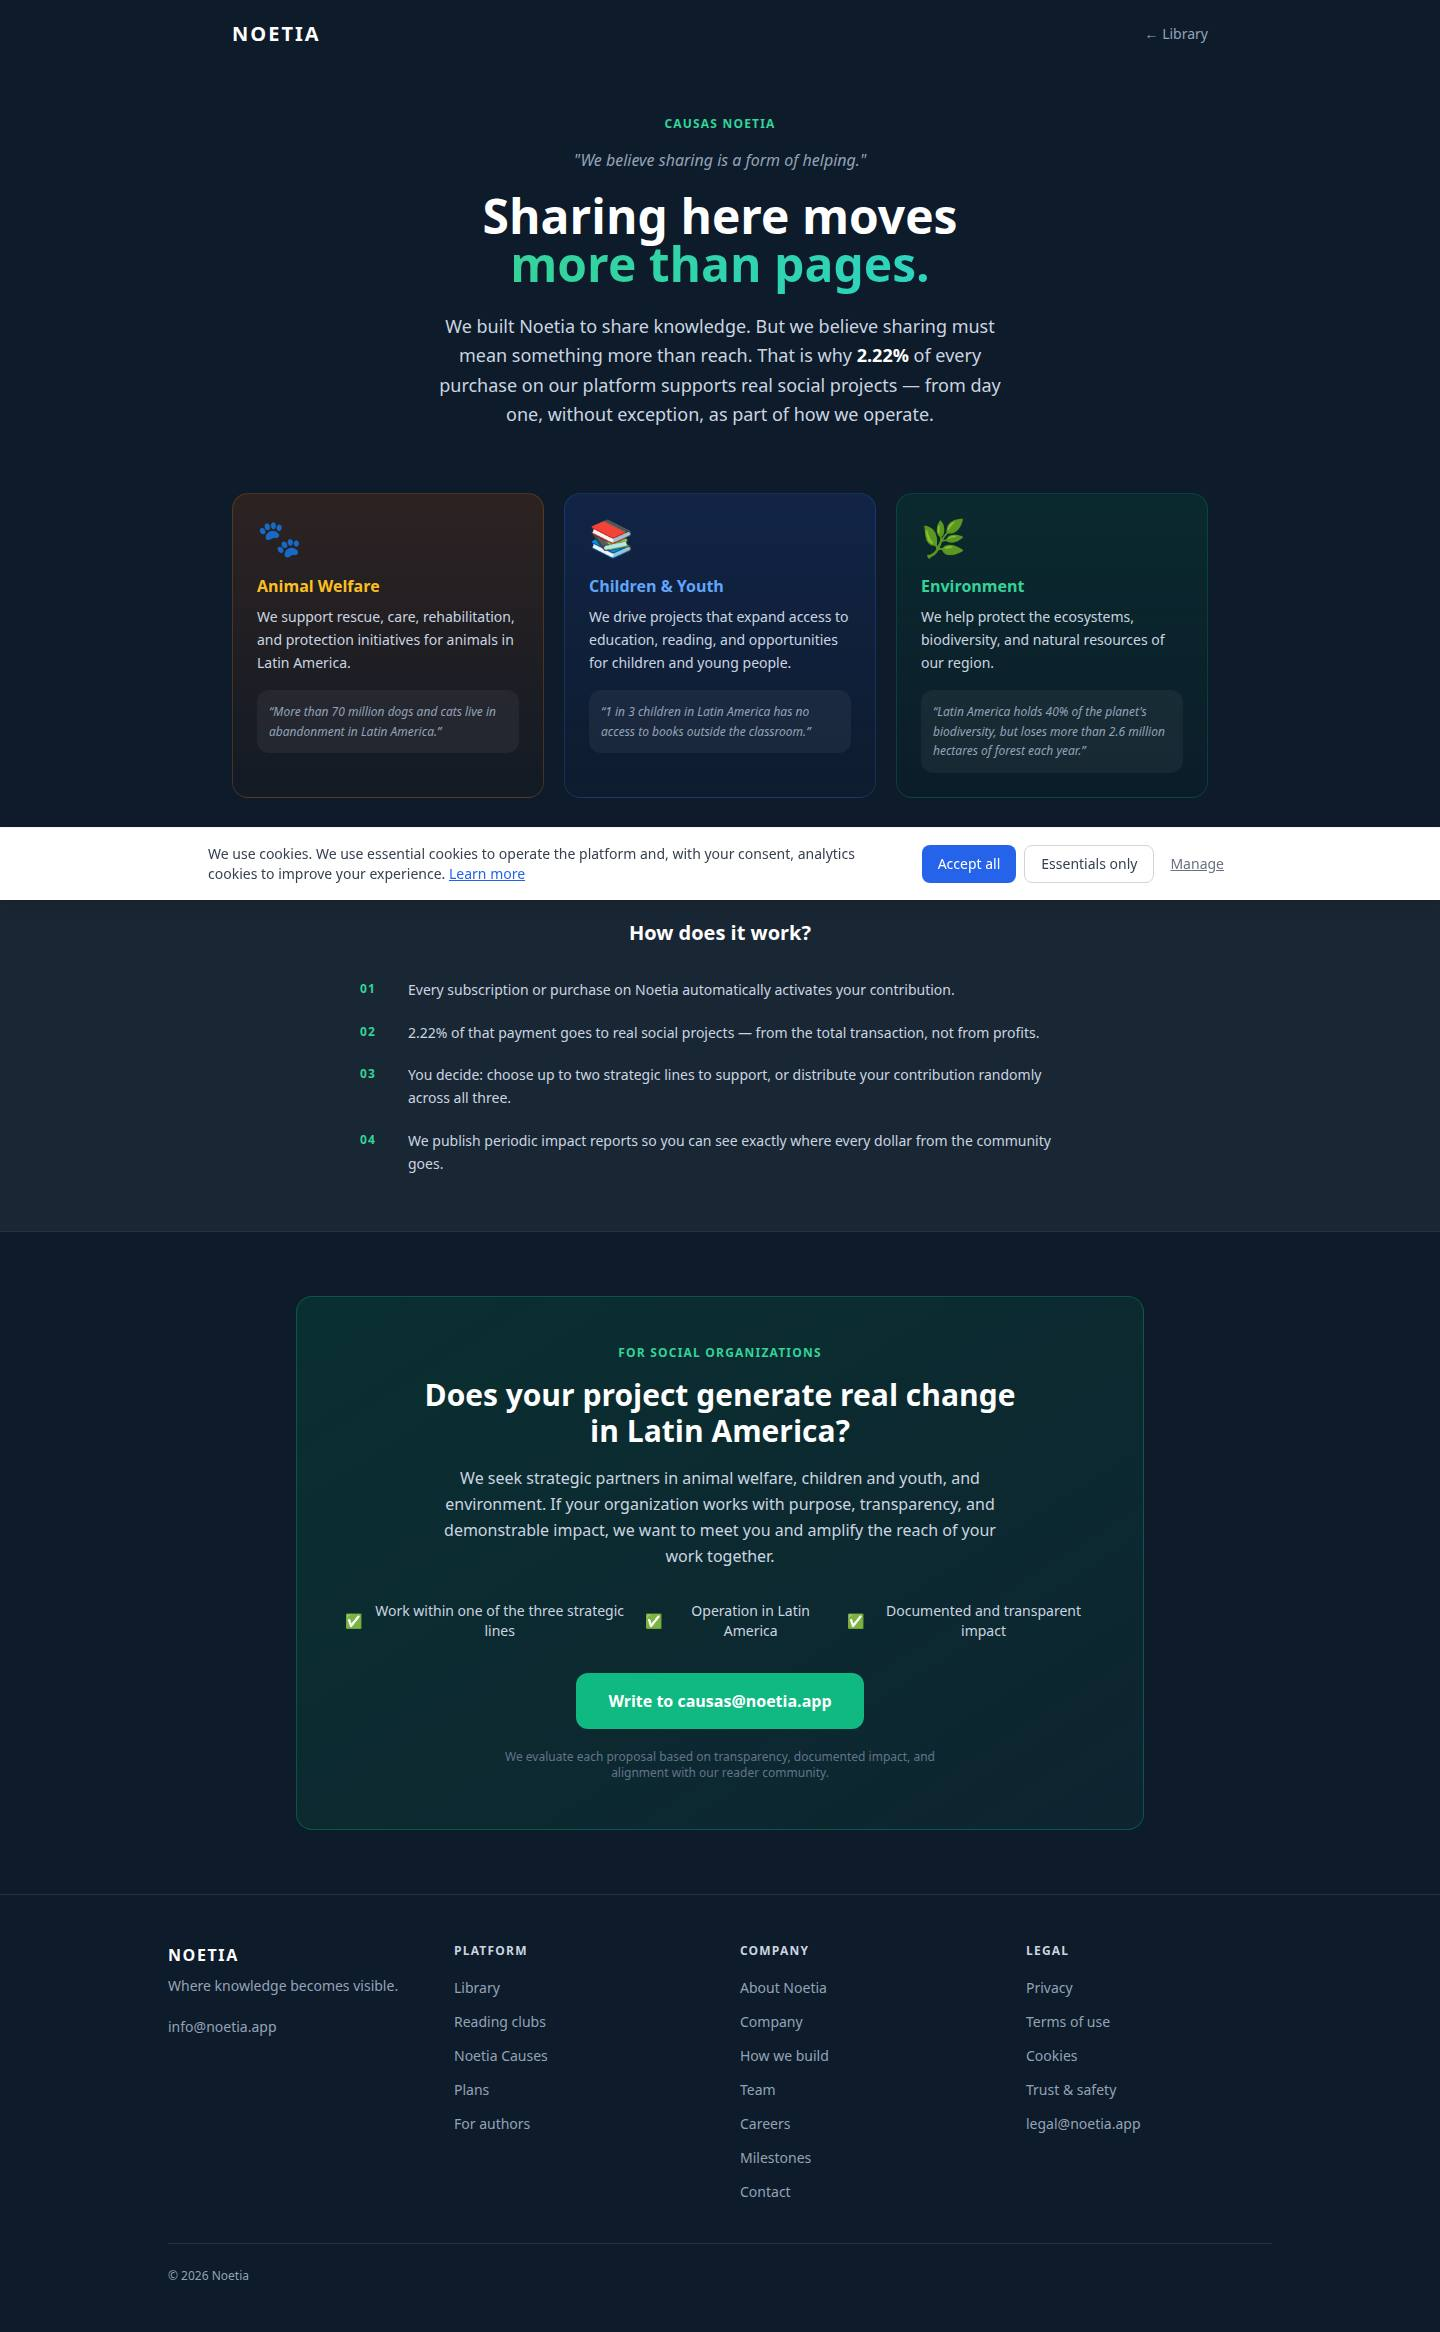
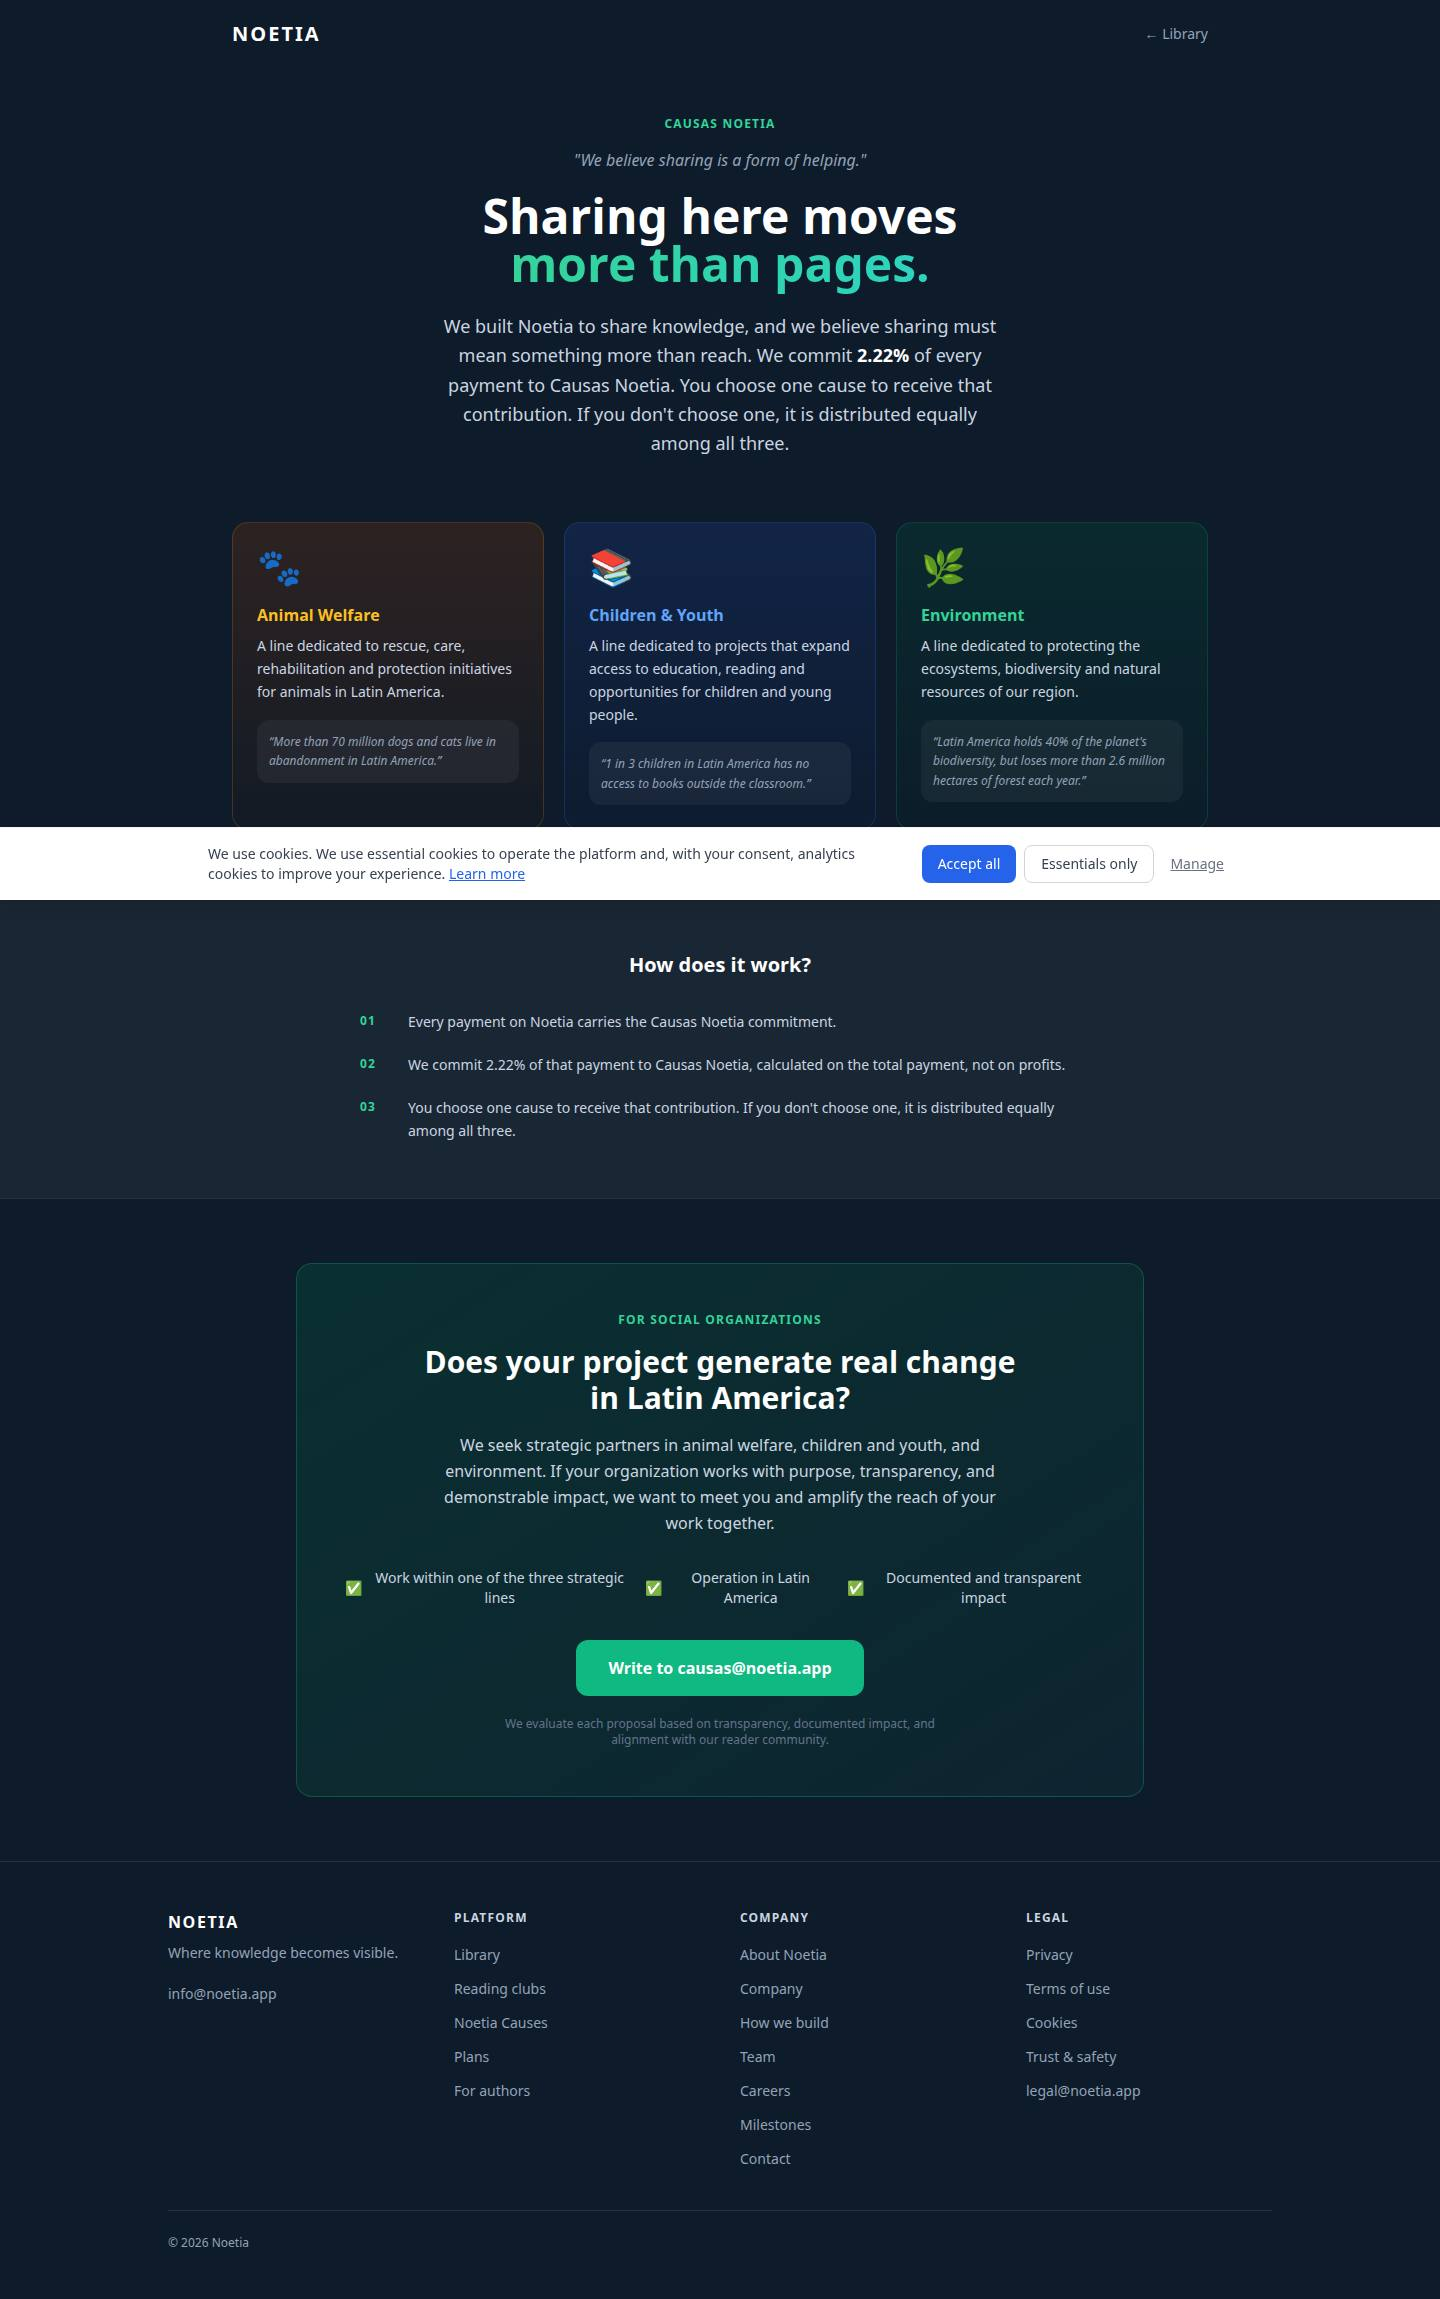
fix(web): align /causas copy with PO-053 — one cause or equal default; commitment wording
Replace the two-cause/random description with the PO-approved distribution
rule (ES/EN), replace execution-tense claims ("supports real projects from day
one", "automatically activates", present-tense support) with commitment
wording, and remove the unsupported claim that impact reports are published.
The 2.22% commitment and the three causes are preserved. Adds a regression
test enforcing the wording and homepage agreement. Terms of Service, cause
selector, preference API, schema and accounting unchanged.

diff --git a/services/web/app/causas/page.tsx b/services/web/app/causas/page.tsx
@@ -13,12 +13,12 @@ const STRATEGIC_LINES = [
     icon: '🐾',
     es: {
       name: 'Bienestar Animal',
-      description: 'Apoyamos iniciativas de rescate, cuidado, rehabilitación y protección de animales en América Latina.',
+      description: 'Línea dedicada a iniciativas de rescate, cuidado, rehabilitación y protección de animales en América Latina.',
       stat: 'Más de 70 millones de perros y gatos viven en condición de abandono en América Latina.',
     },
     en: {
       name: 'Animal Welfare',
-      description: 'We support rescue, care, rehabilitation, and protection initiatives for animals in Latin America.',
+      description: 'A line dedicated to rescue, care, rehabilitation and protection initiatives for animals in Latin America.',
       stat: 'More than 70 million dogs and cats live in abandonment in Latin America.',
     },
     color: 'from-amber-900/30 to-amber-950/10 border-amber-500/20',
@@ -29,12 +29,12 @@ const STRATEGIC_LINES = [
     icon: '📚',
     es: {
       name: 'Niñez y Juventud',
-      description: 'Impulsamos proyectos que amplían el acceso a la educación, la lectura y las oportunidades para niños y jóvenes.',
+      description: 'Línea dedicada a proyectos que amplían el acceso a la educación, la lectura y las oportunidades para niños y jóvenes.',
       stat: '1 de cada 3 niños en América Latina no tiene acceso a libros fuera del aula escolar.',
     },
     en: {
       name: 'Children & Youth',
-      description: 'We drive projects that expand access to education, reading, and opportunities for children and young people.',
+      description: 'A line dedicated to projects that expand access to education, reading and opportunities for children and young people.',
       stat: '1 in 3 children in Latin America has no access to books outside the classroom.',
     },
     color: 'from-blue-900/30 to-blue-950/10 border-blue-500/20',
@@ -45,12 +45,12 @@ const STRATEGIC_LINES = [
     icon: '🌿',
     es: {
       name: 'Medio Ambiente',
-      description: 'Contribuimos a proteger los ecosistemas, la biodiversidad y los recursos naturales de nuestra región.',
+      description: 'Línea dedicada a la protección de los ecosistemas, la biodiversidad y los recursos naturales de nuestra región.',
       stat: 'América Latina alberga el 40% de la biodiversidad del planeta, pero pierde más de 2,6 millones de hectáreas de bosque al año.',
     },
     en: {
       name: 'Environment',
-      description: 'We help protect the ecosystems, biodiversity, and natural resources of our region.',
+      description: 'A line dedicated to protecting the ecosystems, biodiversity and natural resources of our region.',
       stat: 'Latin America holds 40% of the planet\'s biodiversity, but loses more than 2.6 million hectares of forest each year.',
     },
     color: 'from-emerald-900/30 to-emerald-950/10 border-emerald-500/20',
@@ -61,23 +61,18 @@ const STRATEGIC_LINES = [
 const HOW_IT_WORKS = [
   {
     step: '01',
-    es: 'Cada suscripción o compra en Noetia activa automáticamente tu aporte.',
-    en: 'Every subscription or purchase on Noetia automatically activates your contribution.',
+    es: 'Cada pago en Noetia incluye el compromiso de Causas Noetia.',
+    en: 'Every payment on Noetia carries the Causas Noetia commitment.',
   },
   {
     step: '02',
-    es: 'El 2,22% de ese pago se asigna a proyectos sociales reales — del total de la transacción, no de las ganancias.',
-    en: '2.22% of that payment goes to real social projects — from the total transaction, not from profits.',
+    es: 'Destinamos el 2,22% de ese pago a Causas Noetia, calculado sobre el total del pago y no sobre las ganancias.',
+    en: 'We commit 2.22% of that payment to Causas Noetia, calculated on the total payment, not on profits.',
   },
   {
     step: '03',
-    es: 'Tú decides: elige hasta dos líneas estratégicas que quieres apoyar, o distribuye tu aporte de forma aleatoria entre las tres.',
-    en: 'You decide: choose up to two strategic lines to support, or distribute your contribution randomly across all three.',
-  },
-  {
-    step: '04',
-    es: 'Publicamos informes periódicos de impacto para que veas exactamente a dónde va cada peso de la comunidad.',
-    en: 'We publish periodic impact reports so you can see exactly where every dollar from the community goes.',
+    es: 'Tú eliges una causa para recibir ese aporte. Si no eliges ninguna, se distribuye por igual entre las tres.',
+    en: 'You choose one cause to receive that contribution. If you don\'t choose one, it is distributed equally among all three.',
   },
 ];
 
@@ -141,17 +136,17 @@ export default function CausasPage() {
         </h1>
         <p className="text-slate-300 text-lg leading-relaxed max-w-xl mx-auto">
           {l === 'es' ? (
-            <>Construimos Noetia para compartir conocimiento. Pero creemos que compartir
-              tiene que significar algo más que alcance. Por eso el{' '}
-              <strong className="text-white">2,22%</strong> de cada compra en nuestra plataforma
-              apoya proyectos sociales reales — desde el primer día, sin excepción,
-              como parte de cómo operamos.</>
+            <>Construimos Noetia para compartir conocimiento, y creemos que compartir
+              tiene que significar algo más que alcance. Destinamos el{' '}
+              <strong className="text-white">2,22%</strong> de cada pago a Causas Noetia. Tú eliges
+              una causa para recibir ese aporte. Si no eliges ninguna, se distribuye por igual
+              entre las tres.</>
           ) : (
-            <>We built Noetia to share knowledge. But we believe sharing must mean something
-              more than reach. That is why{' '}
-              <strong className="text-white">2.22%</strong> of every purchase on our platform
-              supports real social projects — from day one, without exception,
-              as part of how we operate.</>
+            <>We built Noetia to share knowledge, and we believe sharing must mean something
+              more than reach. We commit{' '}
+              <strong className="text-white">2.22%</strong> of every payment to Causas Noetia. You
+              choose one cause to receive that contribution. If you don&apos;t choose one, it is
+              distributed equally among all three.</>
           )}
         </p>
       </section>

diff --git a/services/web/tests/unit/app/causas.spec.tsx b/services/web/tests/unit/app/causas.spec.tsx
@@ -1,0 +1,52 @@
+// /causas public copy must match the PO-053 policy (one cause; equal default) and the homepage wording,
+// and must not claim executed contributions, published reports, two causes or random distribution.
+jest.mock('next/link', () => ({
+  __esModule: true,
+  default: ({ children, href, ...props }: any) => {
+    const React = require('react');
+    return React.createElement('a', { href, ...props }, children);
+  },
+}));
+jest.mock('@/lib/api', () => ({ apiFetch: jest.fn(() => Promise.resolve([])) }));
+const mockLang = { current: 'es' as 'es' | 'en' };
+jest.mock('@/lib/i18n', () => ({ useTranslation: () => ({ language: mockLang.current }) }));
+
+import React, { act } from 'react';
+import { createRoot, Root } from 'react-dom/client';
+import CausasPage from '@/app/causas/page';
+import { en } from '@/lib/i18n/en';
+import { es } from '@/lib/i18n/es';
+
+(global as any).IS_REACT_ACT_ENVIRONMENT = true;
+
+let container: HTMLDivElement;
+let root: Root;
+const norm = (s: string) => s.replace(/\s+/g, ' ').trim();
+async function render(lang: 'es' | 'en') {
+  mockLang.current = lang;
+  await act(async () => { root.render(React.createElement(CausasPage)); });
+  return norm(container.textContent ?? '');
+}
+beforeEach(() => { container = document.createElement('div'); document.body.appendChild(container); root = createRoot(container); });
+afterEach(() => { act(() => root.unmount()); container.remove(); });
+
+describe('/causas copy (PO-053)', () => {
+  it.each([['es', es], ['en', en]] as const)('states the approved distribution rule, matching the homepage (%s)', async (lang, t) => {
+    const text = await render(lang);
+    // The homepage sentence after the commitment clause must appear verbatim on /causas.
+    const rule = t.landing.causas.body.split(lang === 'es' ? 'Causas Noetia. ' : 'Causas Noetia. ')[1];
+    expect(text).toContain(norm(rule));
+    expect(text).toMatch(lang === 'es' ? /2,22%/ : /2\.22%/);
+  });
+
+  it.each(['es', 'en'] as const)('keeps the three approved causes (%s)', async (lang) => {
+    const text = await render(lang);
+    const names = lang === 'es' ? ['Bienestar Animal', 'Niñez y Juventud', 'Medio Ambiente'] : ['Animal Welfare', 'Children & Youth', 'Environment'];
+    for (const n of names) expect(text).toContain(n);
+  });
+
+  it.each(['es', 'en'] as const)('makes no two-cause, random, executed-contribution or published-report claims (%s)', async (lang) => {
+    const text = await render(lang);
+    expect(text).not.toMatch(/aleator|random|hasta dos|up to two|primer día|day one|sin excepción|without exception|Publicamos|We publish|activa automáticamente|automatically activates|Apoyamos|We support|donad|donated/i);
+  });
+});

diff --git a/docs/reports/public-site-ecosystem-20261112/README.md b/docs/reports/public-site-ecosystem-20261112/README.md
@@ -94,3 +94,32 @@ Full-page captures of the local production build, 2026-11-12. The existing cooki
 - NEM-024 unchanged: E-1 OPEN and BLOCKED; Checkpoint E NOT QUALIFIED.
 - PR #56 and PR #57 not modified.
 - No merge, deployment or activation.
+
+## 6. Correction after PA review of `d35a283` — `/causas` copy aligned with PO-053
+
+**Scope:** the `/causas` page copy only (`services/web/app/causas/page.tsx`), plus a regression test. The Terms of Service, the cause selector, the preference API, the schema, accounting, and the About/Milestones/Company pages are **unchanged**; proposals for those are reported separately for PA review.
+
+| Location (`app/causas/page.tsx`) | Before | After (ES / EN) |
+|---|---|---|
+| Hero paragraph | "2,22% de cada compra… apoya proyectos sociales reales — desde el primer día, sin excepción" / "…every purchase… supports real social projects — from day one, without exception" | PO-053 wording: "Destinamos el 2,22% de cada pago a Causas Noetia. Tú eliges una causa para recibir ese aporte. Si no eliges ninguna, se distribuye por igual entre las tres." / "We commit 2.22% of every payment to Causas Noetia. You choose one cause to receive that contribution. If you don't choose one, it is distributed equally among all three." |
+| Cause descriptions | "Apoyamos… / Impulsamos… / Contribuimos…" / "We support… / We drive… / We help protect…" (present-tense activity) | "Línea dedicada a…" / "A line dedicated to…" |
+| How it works, step 01 | "Cada suscripción o compra… activa automáticamente tu aporte" (implies an allocation mechanism that does not exist) | "Cada pago en Noetia incluye el compromiso de Causas Noetia." / "Every payment on Noetia carries the Causas Noetia commitment." |
+| Step 02 | "se asigna a proyectos sociales reales" | "Destinamos el 2,22% de ese pago a Causas Noetia, calculado sobre el total del pago y no sobre las ganancias." / "We commit 2.22% of that payment… calculated on the total payment, not on profits." |
+| Step 03 | "elige hasta dos líneas… o distribuye… de forma aleatoria" / "choose up to two… or… randomly" | PO-053 rule (one cause; equal default) |
+| Step 04 | "Publicamos informes periódicos de impacto…" / "We publish periodic impact reports…" (none published) | **Removed.** Whether to commit publicly to future impact reports is a PO decision |
+
+**Retained and flagged (not changed):**
+- The three cause statistics (70 million animals; 1 in 3 children without books; 40% of biodiversity and 2.6 Mha per year) are **unsourced**. They need sources or removal (PO decision).
+- The partner invitation ("Buscamos aliados…") claims no existing partners and is kept.
+- The `causas@noetia.app` contact is kept.
+
+**Validation after correction:**
+
+| Check | Result |
+|---|---|
+| Web unit tests | **325/325 passed (22 suites)**; new `tests/unit/app/causas.spec.tsx` asserts the PO-053 rule (ES/EN), agreement with the homepage sentence, the three causes, and the absence of two-cause, random, executed-contribution and published-report claims |
+| `tsc`, `next lint`, `next build` | pass; no lint findings in changed files |
+| Homepage ↔ `/causas` | Same distribution sentence (enforced by the test) |
+| Premium cards | still **0** links or buttons |
+| Footers | 1 per page; no overflow at 360/390/1440; all internal links HTTP 200 |
+| Screenshots | `screenshots/causas--{es,en}--{desktop,mobile}.jpg` and `home--*` regenerated |
